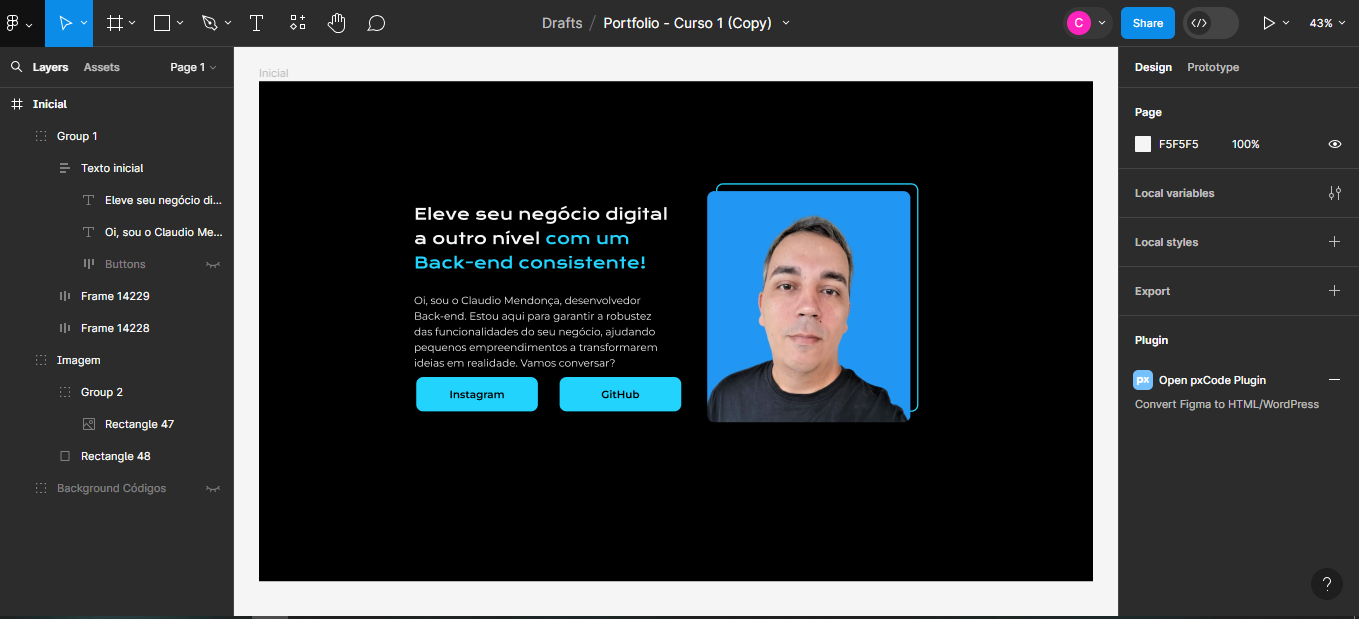
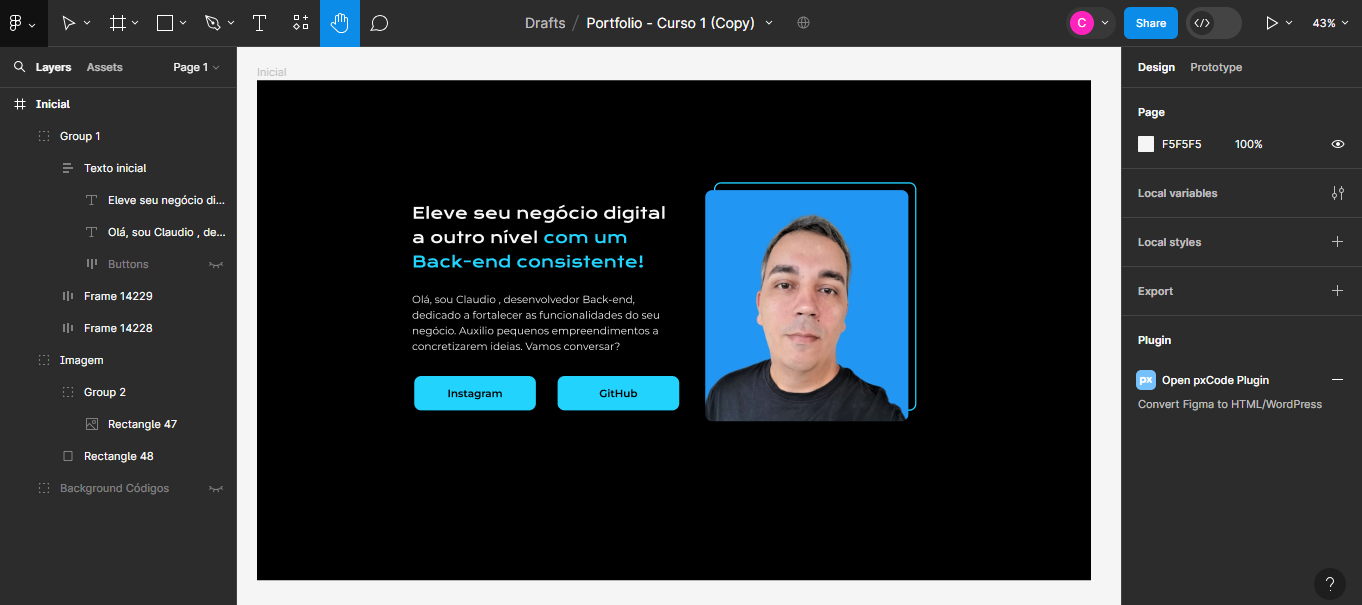
Mudança no texto para ficar igual ao Figma

diff --git a/index.html b/index.html
@@ -11,7 +11,7 @@
     <header></header>
     <main>
         <h1>Eleve seu negócio digital a outro nível <strong class="titulo-destaque">com um Back-end consistente!</strong></h1>
-        <p>Oi, sou o Claudio Mendonça, desenvolvedor Back-end. Estou aqui para garantir a robustez das funcionalidades do seu negócio, ajudando pequenos empreendimentos a transformarem ideias em realidade. Vamos conversar?</p>
+        <p>Olá, sou Claudio , desenvolvedor Back-end, dedicado a fortalecer as funcionalidades do seu negócio. Auxilio pequenos empreendimentos a concretizarem ideias. Vamos conversar?</p>
         <a href="https://www.instagram.com/claudiomendonca.eng.br/">Instagram</a>
         <a href="https://github.com/ClaudioMendonca-Eng">Github</a>
         <img src="imagem.png" alt="Foto da Claudio Mendonca programandor">
